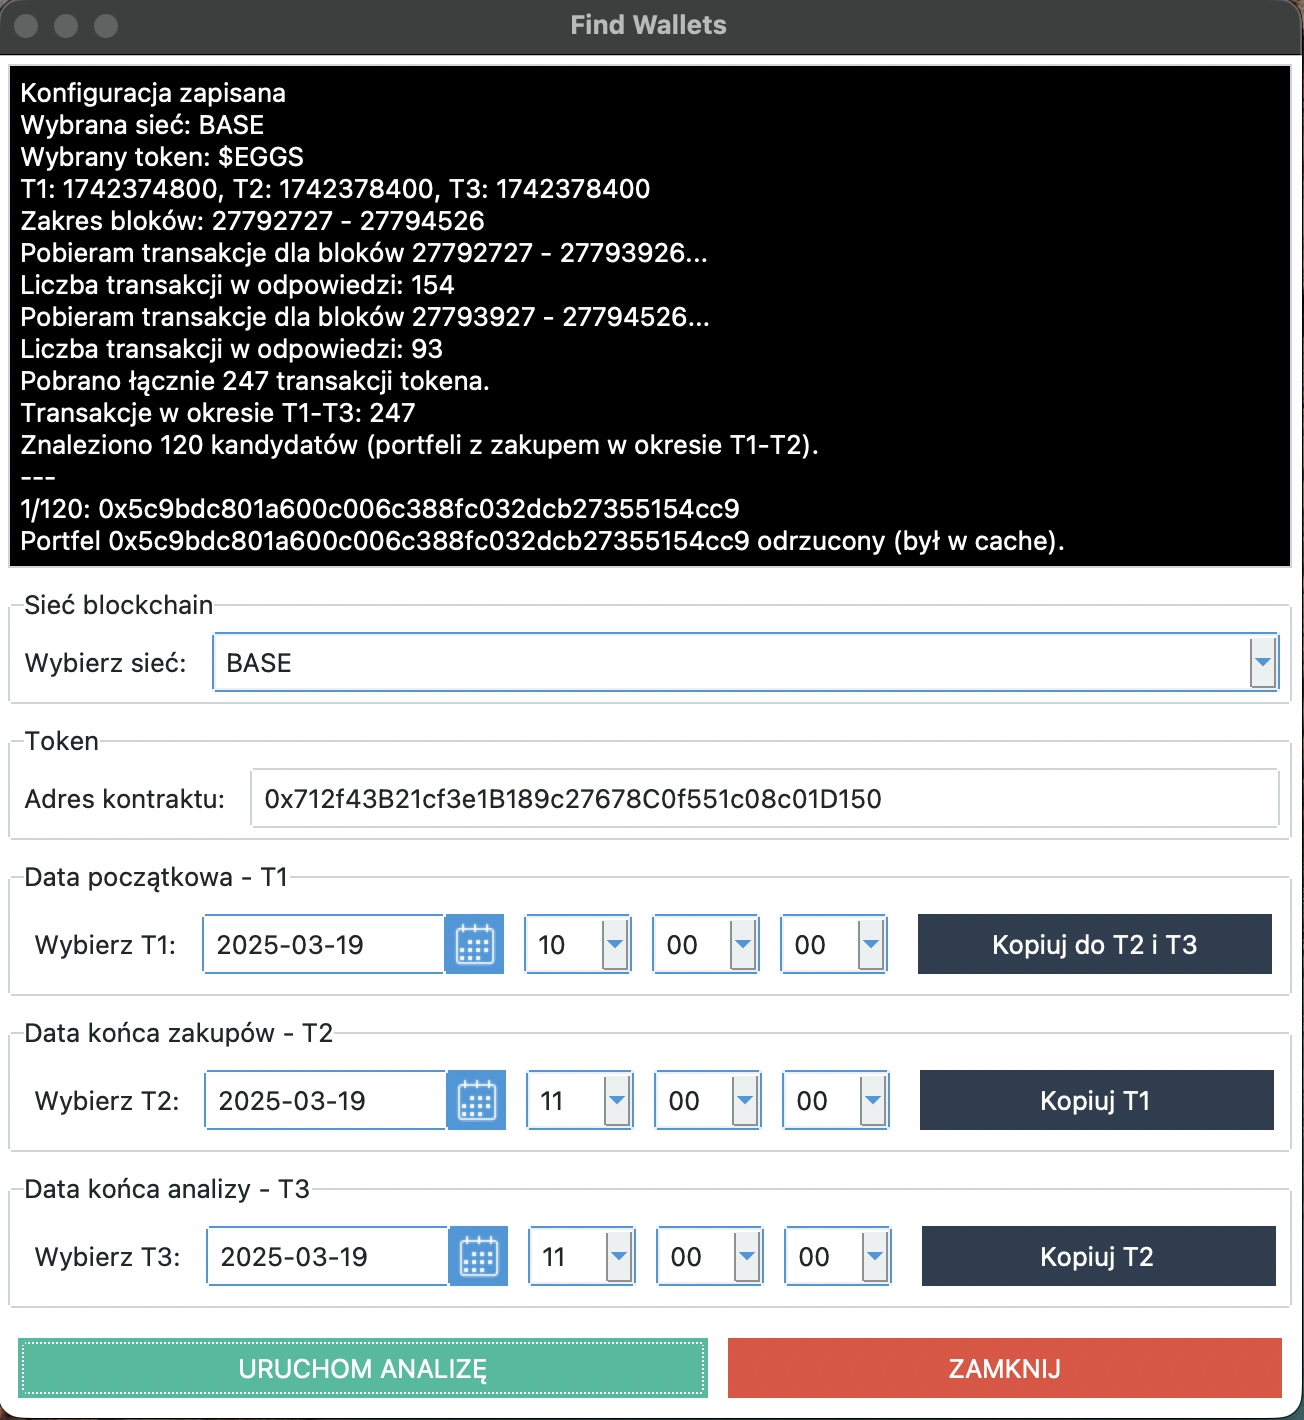
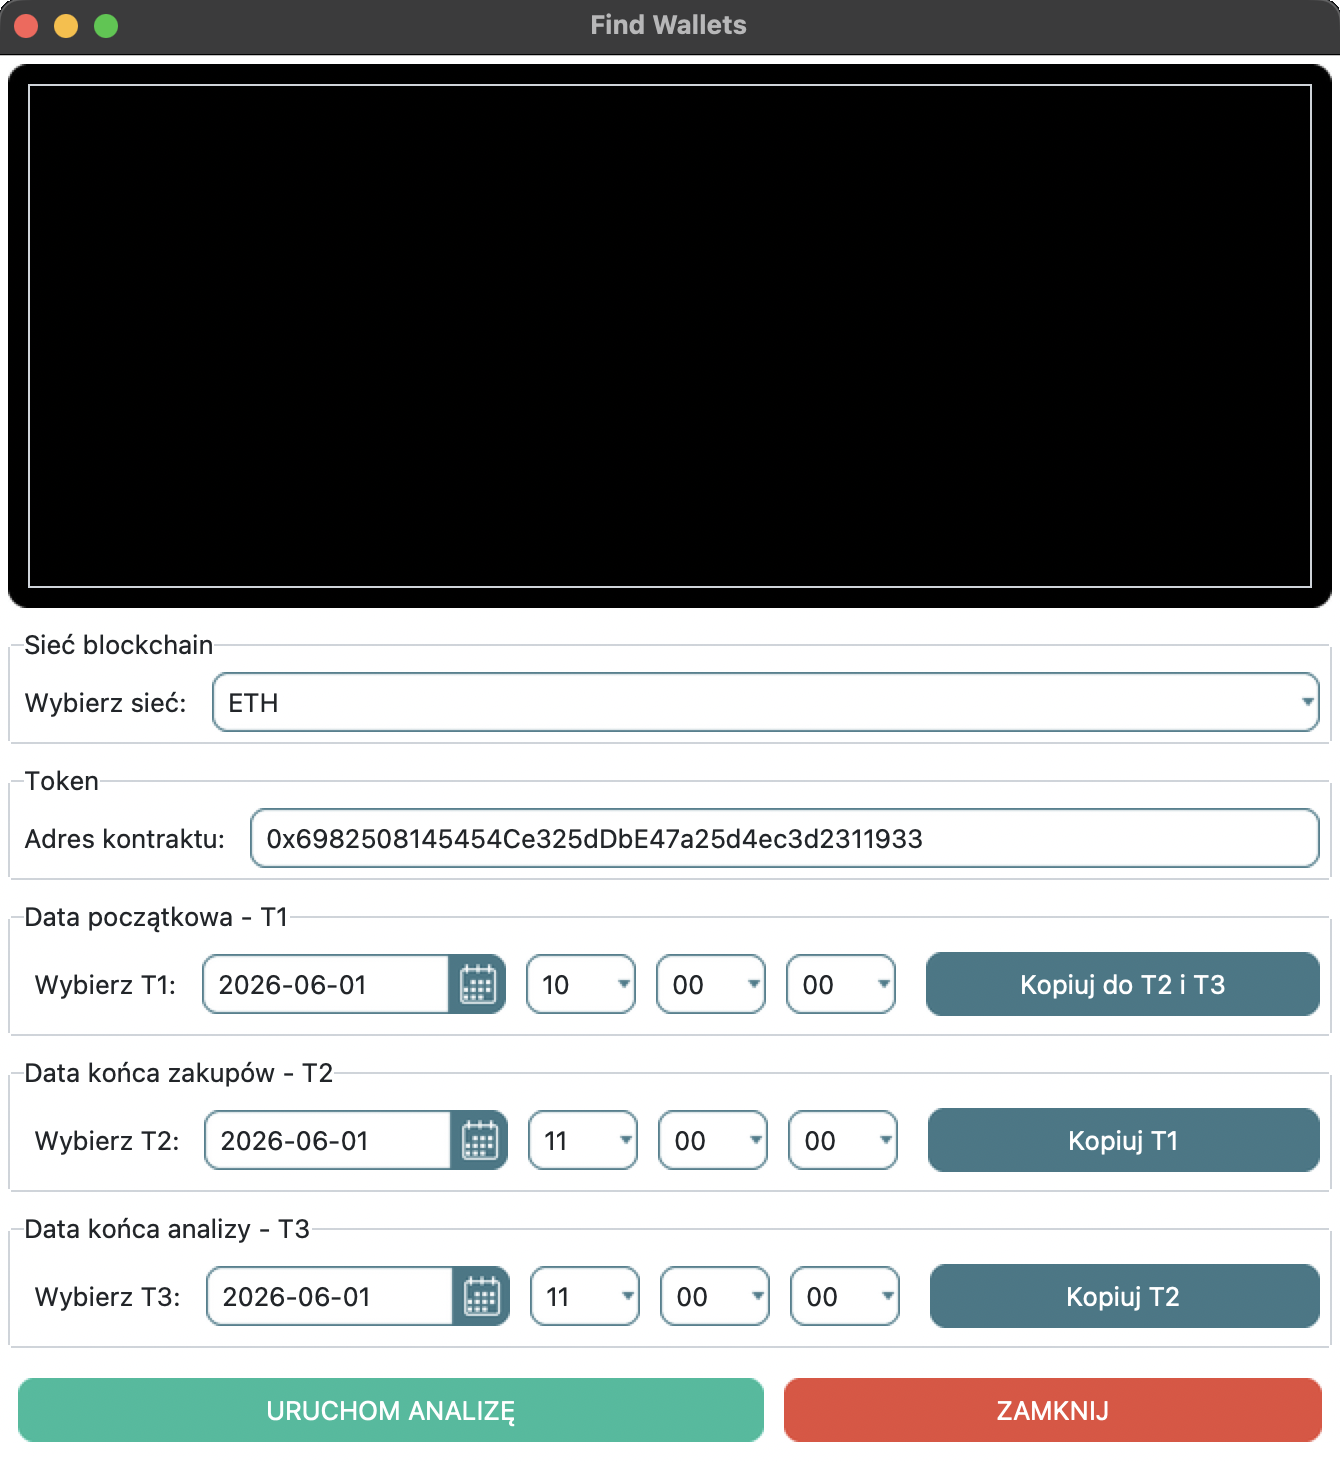
align button widths and make resize grow only the log panel

Changed region(s): [[0.0, 0.0, 1.0, 1.0], [0.4294, 0.2169, 0.5215, 0.2479]]

diff --git a/frontend/gui_app.py b/frontend/gui_app.py
@@ -38,6 +38,7 @@ class WalletApp:
 
         self.root.minsize(GuiConstants.GUI_MIN_WIDTH, GuiConstants.GUI_MIN_HEIGHT)
         self.root.grid_columnconfigure(0, weight=1, uniform="equal")
+        self.root.grid_rowconfigure(0, weight=1)
 
         RoundedStyle.configure_ttk_style()
 
@@ -55,7 +56,7 @@ class WalletApp:
             self.root, GuiConstants.GUI_LOG_BG_COLOR,
             height=GuiConstants.GUI_LOG_HEIGHT, width=GuiConstants.GUI_LOG_WIDTH)
         log_panel.grid(row=0, column=0, padx=GuiConstants.GUI_PADDING_X, pady=5,
-                     columnspan=2, sticky="ew")
+                     columnspan=2, sticky="nsew")
         self.log_widget.config(bg=GuiConstants.GUI_LOG_BG_COLOR, fg=GuiConstants.GUI_LOG_FG_COLOR,
                              insertbackground=GuiConstants.GUI_LOG_INSERT_BG_COLOR)
 
@@ -102,6 +103,7 @@ class WalletApp:
         frame_t1 = ttk.Labelframe(self.root, text="Data początkowa - T1")
         frame_t1.grid(row=3, column=0, padx=GuiConstants.GUI_PADDING_X,
                      pady=GuiConstants.GUI_PADDING_Y, sticky="ew")
+        frame_t1.grid_columnconfigure(2, weight=1)
 
         self.T1_widgets = GUIHelpers.create_datetime_section(
             frame_t1, "Wybierz T1:", row=0,
@@ -115,6 +117,7 @@ class WalletApp:
         frame_t2 = ttk.Labelframe(self.root, text="Data końca zakupów - T2")
         frame_t2.grid(row=4, column=0, padx=GuiConstants.GUI_PADDING_X,
                      pady=GuiConstants.GUI_PADDING_Y, sticky="ew")
+        frame_t2.grid_columnconfigure(2, weight=1)
 
         self.T2_widgets = GUIHelpers.create_datetime_section(
             frame_t2, "Wybierz T2:", row=0,
@@ -128,6 +131,7 @@ class WalletApp:
         frame_t3 = ttk.Labelframe(self.root, text="Data końca analizy - T3")
         frame_t3.grid(row=5, column=0, padx=GuiConstants.GUI_PADDING_X,
                      pady=GuiConstants.GUI_PADDING_Y, sticky="ew")
+        frame_t3.grid_columnconfigure(2, weight=1)
 
         self.T3_widgets = GUIHelpers.create_datetime_section(
             frame_t3, "Wybierz T3:", row=0,
@@ -143,7 +147,8 @@ class WalletApp:
         frame_buttons = ttk.Frame(self.root)
         frame_buttons.grid(row=6, column=0, padx=GuiConstants.GUI_PADDING_X,
                          pady=GuiConstants.GUI_PADDING_Y, sticky="ew")
-        frame_buttons.grid_columnconfigure((0, 1), weight=1)
+        frame_buttons.grid_columnconfigure(0, weight=GuiConstants.GUI_RUN_BUTTON_WEIGHT)
+        frame_buttons.grid_columnconfigure(1, weight=GuiConstants.GUI_CLOSE_BUTTON_WEIGHT)
 
         self.run_button = ttk.Button(frame_buttons, text="URUCHOM ANALIZĘ",
                                    command=self._save_and_run, style="RoundedRun.TButton")

diff --git a/shared/constants/gui_constants.py b/shared/constants/gui_constants.py
@@ -25,6 +25,8 @@ class GuiConstants:
     GUI_SCROLLBAR_WIDTH = 10
     GUI_BUTTON_HOVER_SHADE = 0.88
     GUI_BUTTON_PRESSED_SHADE = 0.78
+    GUI_RUN_BUTTON_WEIGHT = 6
+    GUI_CLOSE_BUTTON_WEIGHT = 5
 
     APP_TITLE = "Find Wallets"
     GUI_THEME = "flatly"